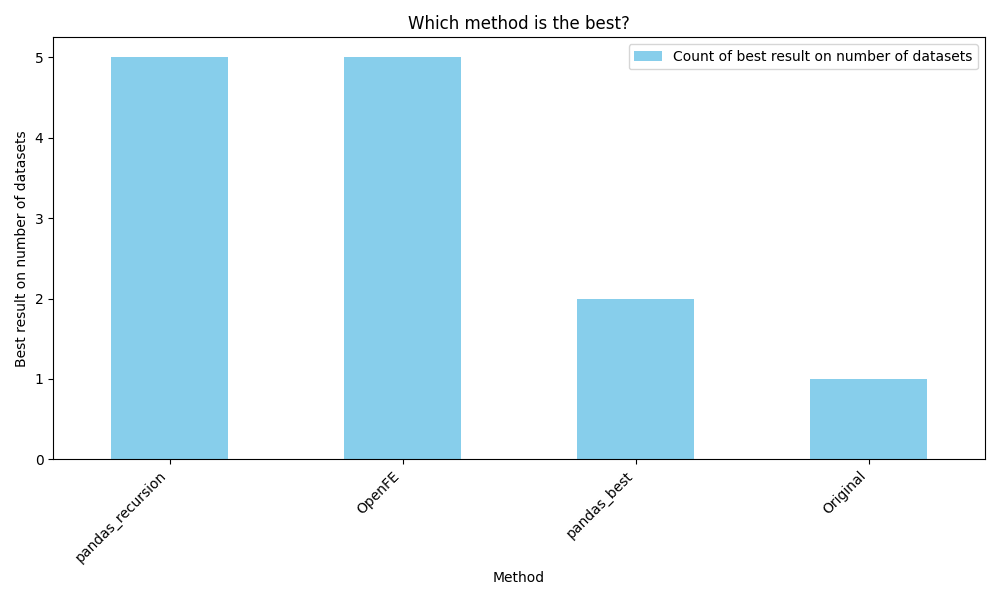
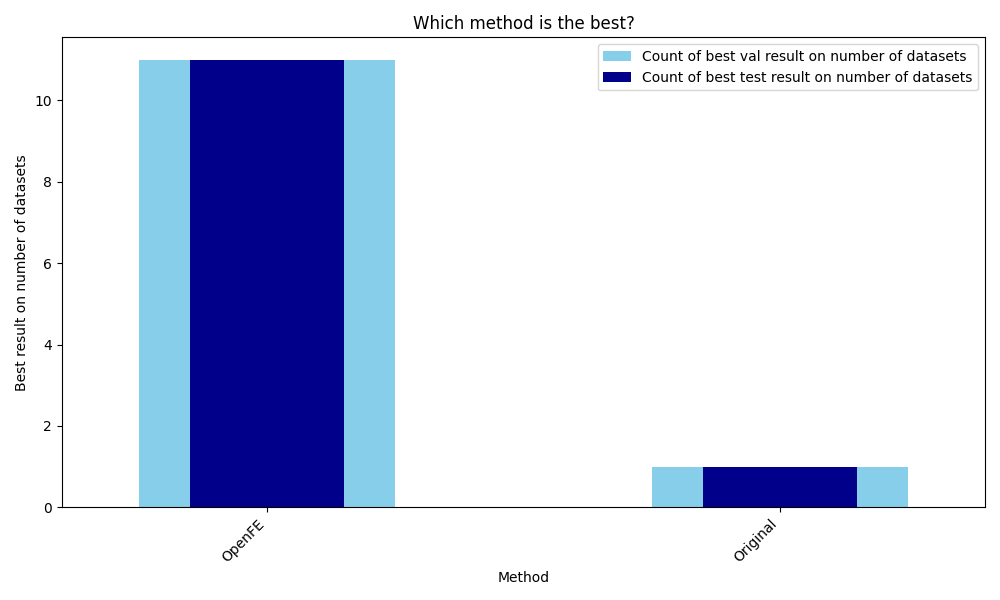
Extend result analysis & upload new results

diff --git a/src/Apply_and_Test/analyse_results.py b/src/Apply_and_Test/analyse_results.py
@@ -54,42 +54,72 @@ def analyse_results():
     plt.figure(figsize=(12, 6))
     for method in df_pivot_val.columns:
         plt.plot(dataset_list_wrapped, df_pivot_val[method], marker='o', label=method)
-        plt.plot(dataset_list_wrapped, df_pivot_test[method], marker='o', label=method)
-
     plt.xlabel("Dataset ID")
     plt.xticks(rotation=45)  # or 90
-    plt.ylabel("Autogluon Score")
-    plt.yscale("log") # '', '', 'function', 'functionlog
-    plt.title("Autogluon Score by FE Method per Dataset")
+    plt.ylabel("Autogluon Val Score (flipped)")
+    # plt.yscale("log") # '', '', 'function', 'functionlog
+    plt.title("Autogluon Val Score by FE Method per Dataset")
     plt.legend()
     plt.grid(True)
     plt.tight_layout()
-    plt.savefig("test_results/Autogluon_Score_by_FE_Method.png")
+    plt.savefig("test_results/Autogluon_Val_Score_by_FE_Method.png")
+    plt.show()
+
+    # Plot
+    plt.figure(figsize=(12, 6))
+    for method in df_pivot_val.columns:
+        plt.plot(dataset_list_wrapped, df_pivot_test[method], marker='o', label=method)
+    plt.xlabel("Dataset ID")
+    plt.xticks(rotation=45)  # or 90
+    plt.ylabel("Autogluon Test Score (flipped)")
+    # plt.yscale("log")  # '', '', 'function', 'functionlog
+    plt.title("Autogluon Test Score by FE Method per Dataset")
+    plt.legend()
+    plt.grid(True)
+    plt.tight_layout()
+    plt.savefig("test_results/Autogluon_Test_Score_by_FE_Method.png")
     plt.show()
 
     plt.figure(figsize=(12, 6))
     for method in df_pivot_val.columns:
         if method == "Best Random":
             plt.plot(dataset_list_wrapped, df_pivot_val[method], marker='o', label=method)
-            plt.plot(dataset_list_wrapped, df_pivot_test[method], marker='o', label=method)
         elif method.startswith("pandas"):
             plt.plot(dataset_list_wrapped, df_pivot_val[method], marker='o', label=method)
-            plt.plot(dataset_list_wrapped, df_pivot_test[method], marker='o', label=method)
         elif method.startswith("d2v"):
             plt.plot(dataset_list_wrapped, df_pivot_val[method], marker='o', label=method)
-            plt.plot(dataset_list_wrapped, df_pivot_test[method], marker='o', label=method)
-        elif method.startswith("mfe"):
+        elif method.startswith("MFE"):
             plt.plot(dataset_list_wrapped, df_pivot_val[method], marker='o', label=method)
+
+    plt.xlabel("Dataset ID")
+    plt.xticks(rotation=45)  # or 90
+    plt.ylabel("Autogluon Val Score (flipped)")
+    plt.title("Autogluon Val Score by FE Method per Dataset (Best random vs. our method)")
+    plt.legend()
+    plt.grid(True)
+    plt.tight_layout()
+    plt.savefig("test_results/Random_vs_Me_Val_graph.png")
+    plt.show()
+
+    plt.figure(figsize=(12, 6))
+    for method in df_pivot_val.columns:
+        if method == "Best Random":
+            plt.plot(dataset_list_wrapped, df_pivot_test[method], marker='o', label=method)
+        elif method.startswith("pandas"):
+            plt.plot(dataset_list_wrapped, df_pivot_test[method], marker='o', label=method)
+        elif method.startswith("d2v"):
+            plt.plot(dataset_list_wrapped, df_pivot_test[method], marker='o', label=method)
+        elif method.startswith("MFE"):
             plt.plot(dataset_list_wrapped, df_pivot_test[method], marker='o', label=method)
 
     plt.xlabel("Dataset ID")
     plt.xticks(rotation=45)  # or 90
-    plt.ylabel("Autogluon Score")
-    plt.title("Autogluon Score by FE Method per Dataset (Best random vs. our method)")
+    plt.ylabel("Autogluon Test Score (flipped)")
+    plt.title("Autogluon Test Score by FE Method per Dataset (Best random vs. our method)")
     plt.legend()
     plt.grid(True)
     plt.tight_layout()
-    plt.savefig("test_results/Random_vs_Me_graph.png")
+    plt.savefig("test_results/Random_vs_Me_Test_graph.png")
     plt.show()
 
     minValueIndex_val = df_pivot_val.idxmin(axis=1).value_counts()
@@ -98,7 +128,7 @@ def analyse_results():
     # Plot
     plt.figure(figsize=(10, 6))
     minValueIndex_val.plot(kind='bar', color='skyblue', label='Count of best val result on number of datasets')
-    minValueIndex_test.plot(kind='bar', color='darkblue', label='Count of best test result on number of datasets')
+    minValueIndex_test.plot(kind='bar',  width=0.3, color='darkblue', label='Count of best test result on number of datasets')
     plt.legend()
     plt.xlabel("Method")
     plt.ylabel("Best result on number of datasets")
@@ -117,7 +147,7 @@ def analyse_results():
     # Plot
     plt.figure(figsize=(10, 6))
     minValueIndex_val.plot(kind='bar', color='skyblue', label='Count of best val result on number of datasets')
-    minValueIndex_test.plot(kind='bar', color='darkblue', label='Count of best test result on number of datasets')
+    minValueIndex_test.plot(kind='bar', width=0.3, color='darkblue', label='Count of best test result on number of datasets')
     plt.legend()
     plt.xlabel("Method")
     plt.ylabel("Best result on number of datasets")
